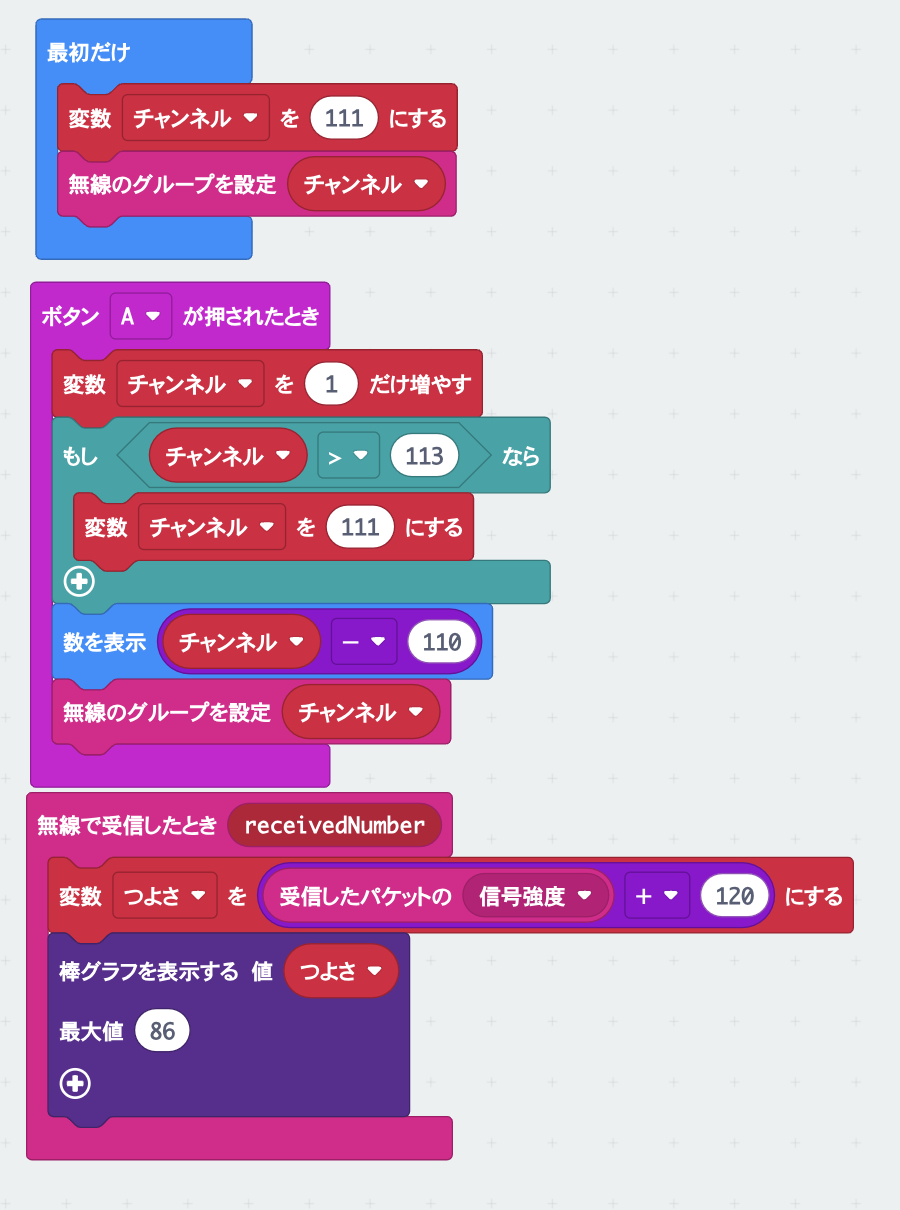
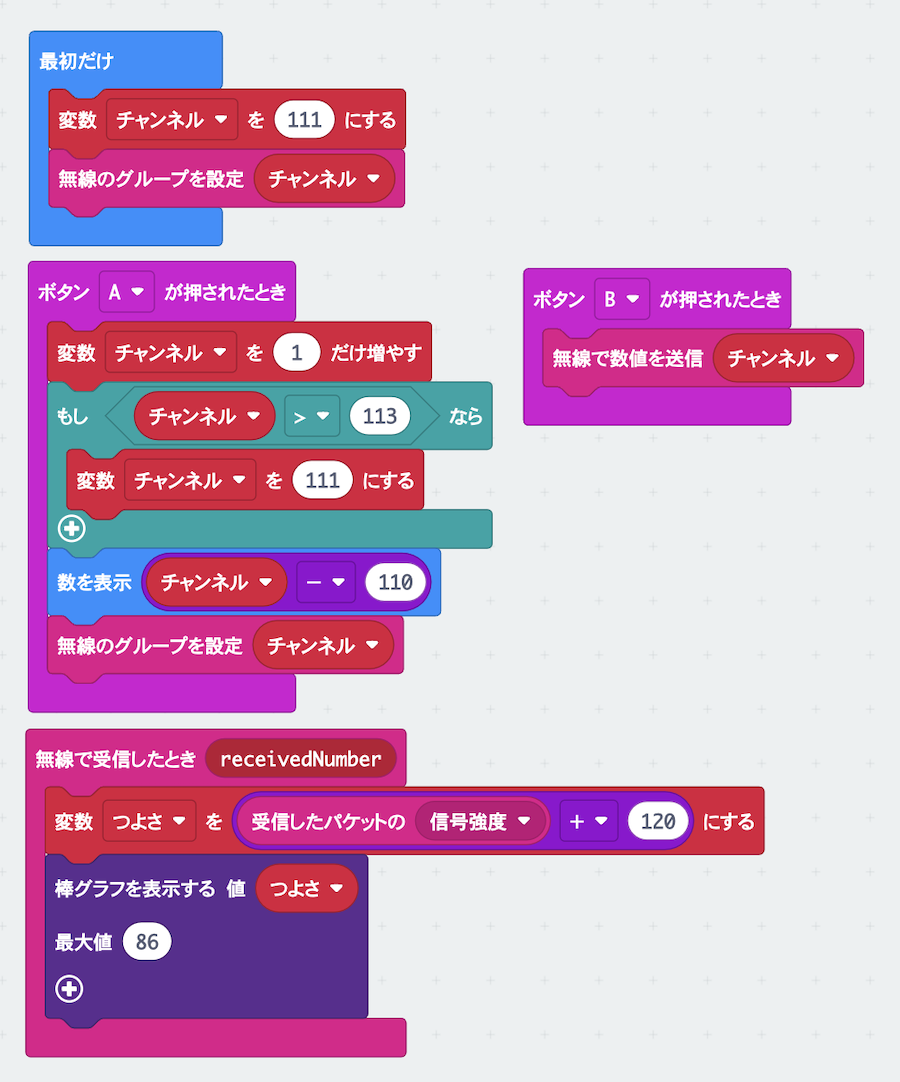
Modify treasure program

diff --git a/program/treasure.md b/program/treasure.md
@@ -11,7 +11,7 @@
 <img width="400" src="./treasure.png">
 
 
-プロジェクト： https://makecode.microbit.org/_KtRWwp3F1iLH
+プロジェクト： https://makecode.microbit.org/_7jaDmW7juCAJ
 
 ## 作り方
 
@@ -32,3 +32,5 @@
 
 * <ruby>送信機<rp>(</rp><rt>そうしんき</rt><rp>)</rp></ruby>は2秒ごとに<ruby>信号<rp>(</rp><rt>しんごう</rt><rp>)</rp></ruby>を出します（ゆっくり歩いてさがしましょう）
 * <ruby>送信機<rp>(</rp><rt>そうしんき</rt><rp>)</rp></ruby>は見えるところにあります（<ruby>冷蔵庫<rp>(</rp><rt>れいぞうこ</rt><rp>)</rp></ruby>の中にはありません）
+* Bボタンを押すと<ruby>送信機<rp>(</rp><rt>そうしんき</rt><rp>)</rp></ruby>から音が出ます。近づくと音が大きくなります。
+
